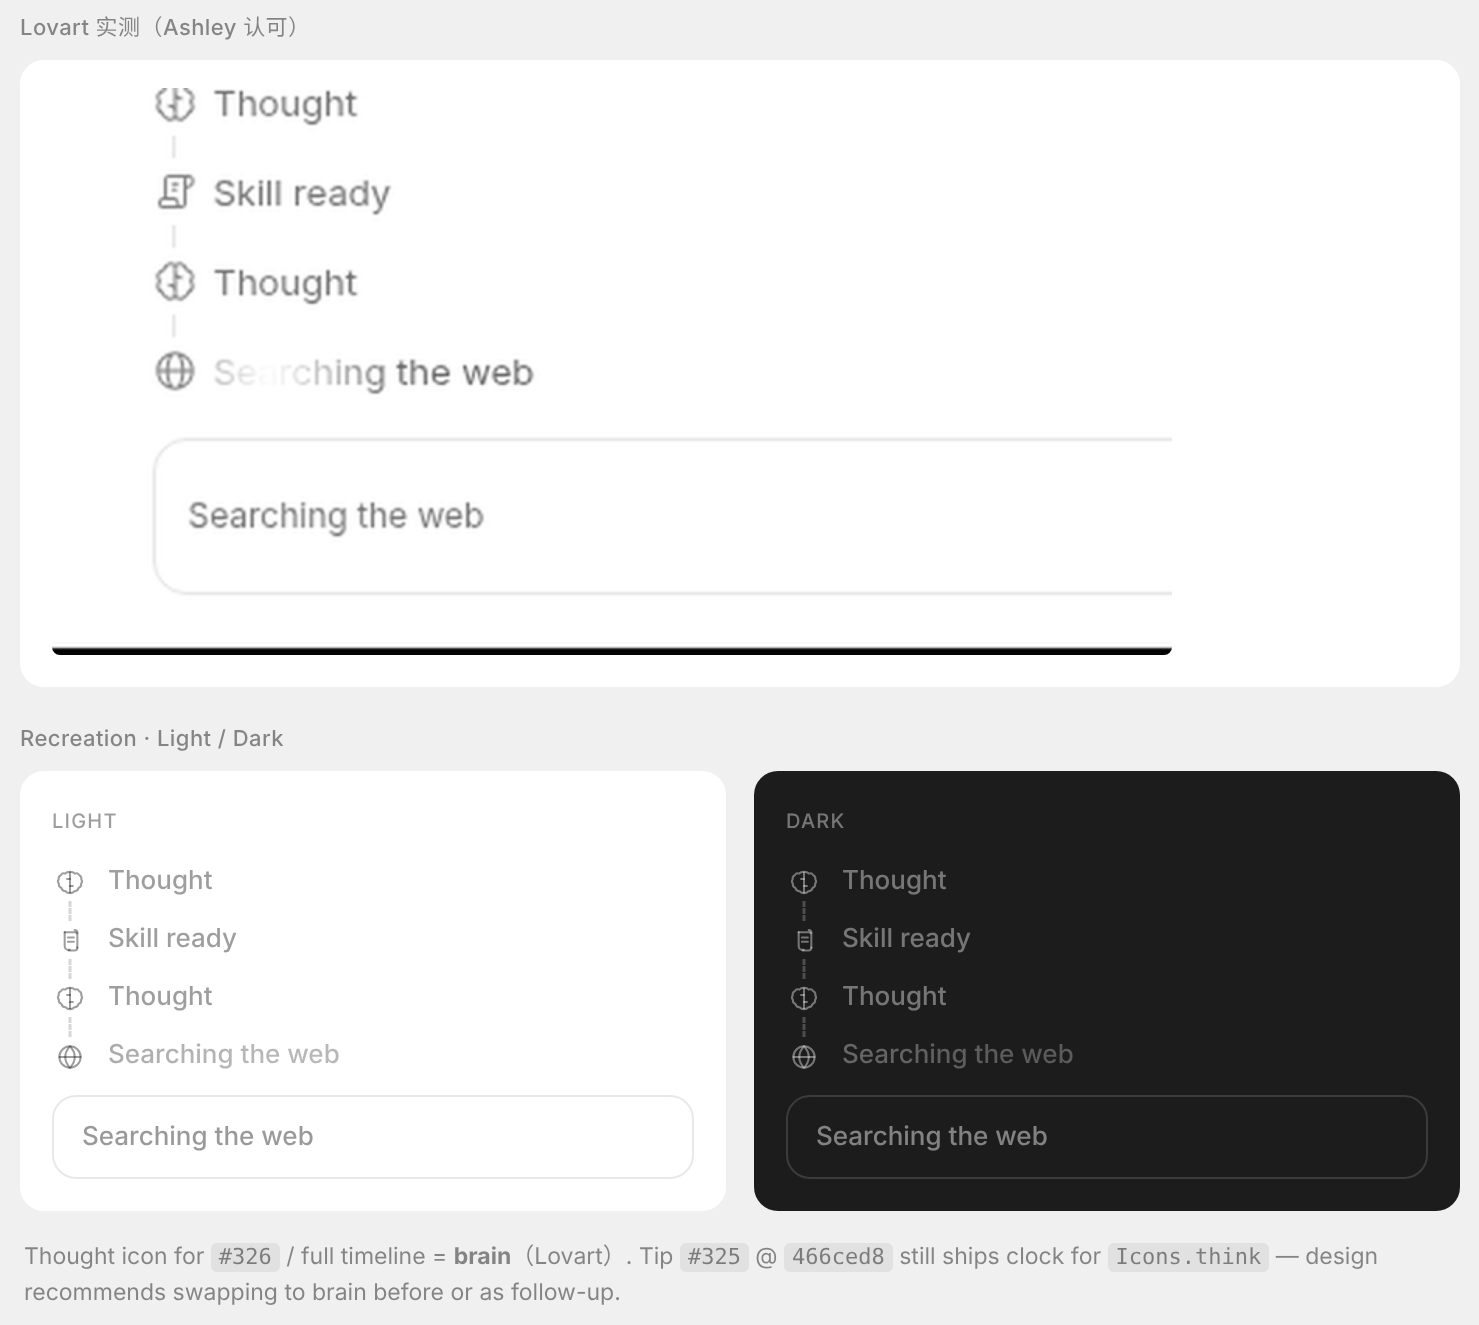
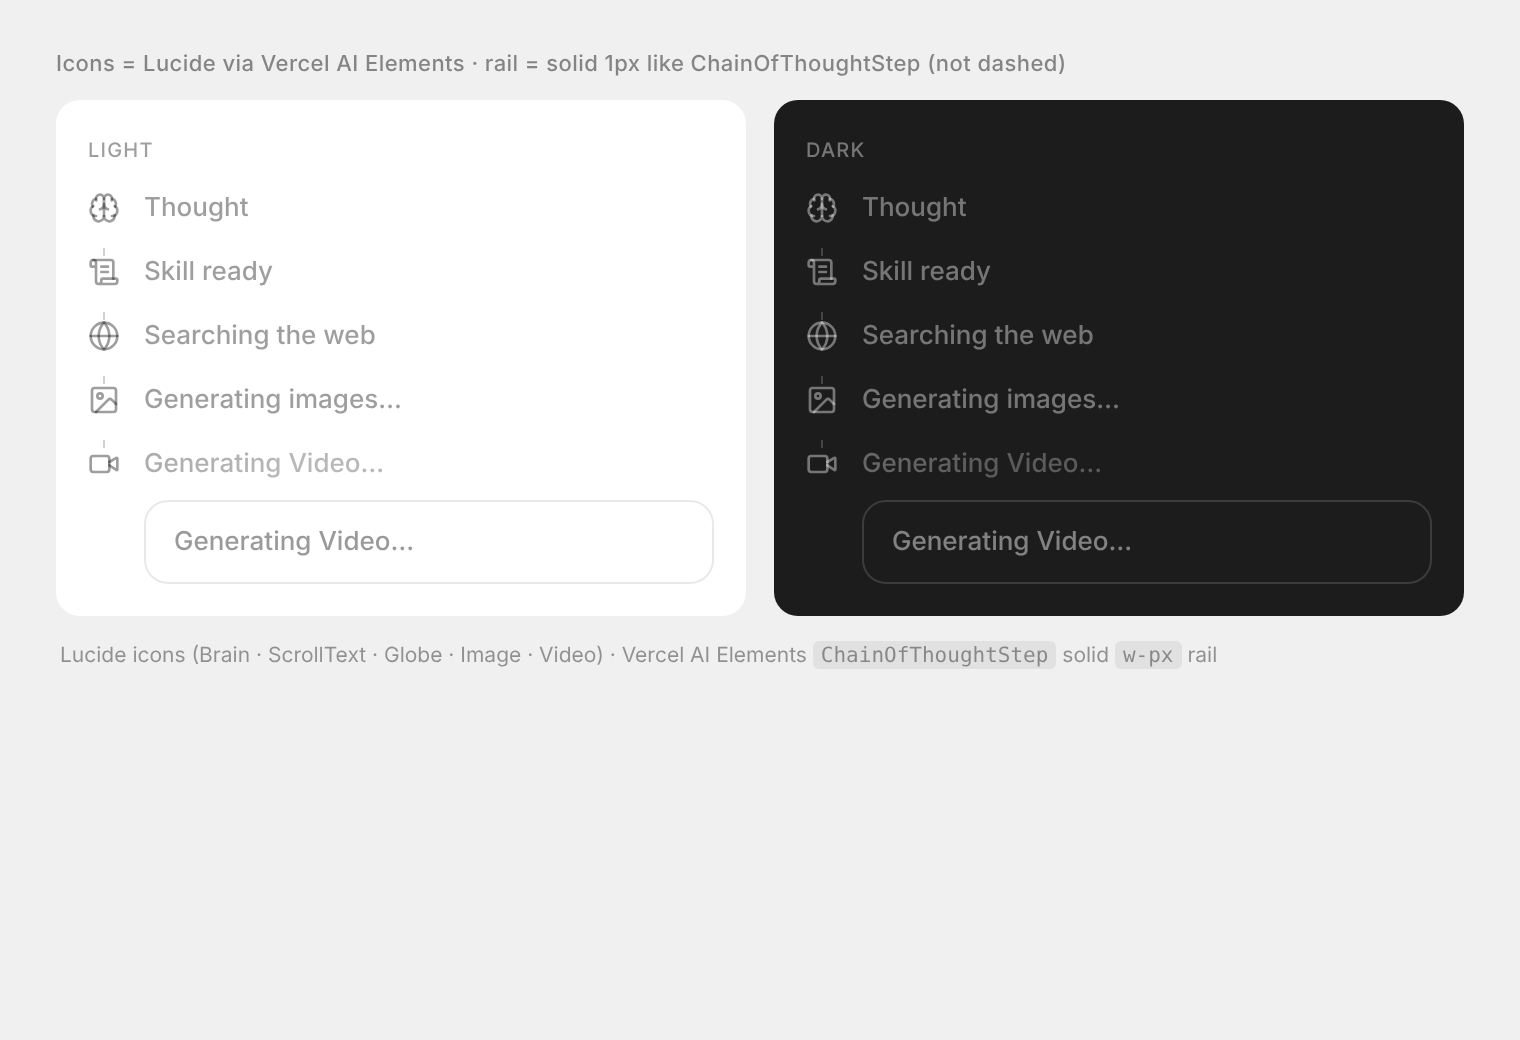
docs(design): #326 process-timeline v3 Lucide + solid CoT rail
Replace hand-drawn/dashed mock with Lucide Brain/ScrollText/Globe/Image/Video
(path data from lucide SVGs) and Vercel AI Elements ChainOfThoughtStep solid
1px rail. Full Lovart inventory incl. Generating images + Generating Video
active status card. Light/Dark side-by-side.

diff --git a/docs/design/326/process-timeline-326.html b/docs/design/326/process-timeline-326.html
@@ -1,40 +1,63 @@
 <!doctype html>
-<html lang="zh-CN"><head><meta charset="utf-8"/><title>#326 process-timeline · Lovart-faithful</title>
+<html lang="en"><head><meta charset="utf-8"/>
+<title>#326 process-timeline · Lucide + ChainOfThoughtStep rail (v3)</title>
 <style>
 :root{
   --ca-font:Inter,-apple-system,BlinkMacSystemFont,"Segoe UI",Roboto,Arial,sans-serif;
-  --muted:rgba(0,0,0,.38);          /* ~#9c9c9c on white */
-  --muted-active:rgba(0,0,0,.28);   /* lighter shimmer base ~#b9 */
+  --muted:rgba(0,0,0,.38);
+  --muted-active:rgba(0,0,0,.28);
   --text:rgba(0,0,0,.9);
   --float:#fff;
   --page:#f0f0f0;
-  --rail:rgba(0,0,0,.16);
   --card-border:rgba(0,0,0,.09);
   --card-text:rgba(0,0,0,.4);
+  --rail-opacity:.2;
 }
 *{box-sizing:border-box}
-body{margin:0;padding:24px 28px 32px;font:400 13px/20px var(--ca-font);background:var(--page);color:var(--text)}
+body{margin:0;padding:24px 28px 28px;font:400 13px/20px var(--ca-font);background:var(--page);color:var(--text)}
 .sheet{max-width:720px;margin:0 auto}
-.cap{font:500 11px/16px var(--ca-font);color:rgba(0,0,0,.45);margin:0 0 8px;letter-spacing:.02em}
-.ref-wrap{background:#fff;border-radius:12px;padding:14px 16px 16px;margin-bottom:18px}
-.ref-wrap img{display:block;width:100%;max-width:560px;height:auto;border-radius:4px}
-.pair{display:grid;grid-template-columns:1fr 1fr;gap:14px;margin-bottom:14px}
+.cap{font:500 11px/16px var(--ca-font);color:rgba(0,0,0,.45);margin:0 0 10px;letter-spacing:.02em}
+.pair{display:grid;grid-template-columns:1fr 1fr;gap:14px;margin-bottom:12px}
 .panel{background:var(--float);border-radius:12px;padding:18px 16px 16px}
-.panel.dark{background:#1c1c1c;--muted:rgba(255,255,255,.4);--muted-active:rgba(255,255,255,.28);--text:rgba(255,255,255,.9);--float:#1c1c1c;--rail:rgba(255,255,255,.22);--card-border:rgba(255,255,255,.14);--card-text:rgba(255,255,255,.45);color:var(--text)}
+.panel.dark{
+  background:#1c1c1c;
+  --muted:rgba(255,255,255,.4);
+  --muted-active:rgba(255,255,255,.28);
+  --text:rgba(255,255,255,.9);
+  --float:#1c1c1c;
+  --card-border:rgba(255,255,255,.14);
+  --card-text:rgba(255,255,255,.45);
+  color:var(--text);
+}
 .panel-label{font:500 10px/14px var(--ca-font);color:var(--muted);margin:0 0 14px;letter-spacing:.06em;text-transform:uppercase}
 .timeline{position:relative}
-.trow{display:grid;grid-template-columns:18px 1fr;column-gap:10px;align-items:start;position:relative;padding-bottom:10px}
-.trow:last-of-type{padding-bottom:0}
-.icon-col{position:relative;width:18px;display:flex;justify-content:center;padding-top:1px}
-.icon{width:18px;height:18px;display:inline-flex;align-items:center;justify-content:center;color:var(--muted);position:relative;z-index:1;background:var(--float)}
-.icon svg{width:16px;height:16px;display:block}
-/* dashed vertical rail through icon centers */
-.trow:not(:last-of-type) .icon-col::after{
-  content:"";position:absolute;top:19px;left:50%;transform:translateX(-50%);
-  width:0;bottom:-10px;border-left:1.5px dashed var(--rail);z-index:0;
+/* AI Elements ChainOfThoughtStep row */
+.trow{display:grid;grid-template-columns:16px 1fr;column-gap:12px;align-items:stretch;position:relative}
+.icon-col{position:relative;width:16px;display:flex;justify-content:center;align-items:flex-start;align-self:stretch}
+.icon{
+  width:16px;height:16px;display:inline-flex;align-items:center;justify-content:center;
+  color:var(--muted);position:relative;z-index:1;background:var(--float);
 }
-.body{min-width:0;padding-top:0}
-.title{font:500 13px/18px var(--ca-font);color:var(--muted)}
+.icon svg{width:16px;height:16px;display:block}
+/* solid 1px rail — mirrors: absolute top-7 bottom-0 left-1/2 -mx-px w-px bg-border */
+.trow:not(.is-last) .icon-col::after{
+  content:"";
+  position:absolute;
+  top:28px; /* top-7 */
+  bottom:0;
+  left:50%;
+  width:1px;
+  margin-left:-0.5px; /* -mx-px */
+  background:currentColor;
+  opacity:var(--rail-opacity);
+  z-index:0;
+  pointer-events:none;
+}
+.body{min-width:0;padding-bottom:16px}
+.trow.is-last .body{padding-bottom:0}
+.title{font:500 13px/18px var(--ca-font);color:var(--muted);margin:0;padding-top:0}
+/* first line aligns with 16px icon — line-height 18, nudge */
+.trow .title{line-height:16px}
 .title.active{
   background:linear-gradient(100deg,var(--muted-active) 28%,var(--muted) 48%,rgba(0,0,0,.55) 50%,var(--muted) 52%,var(--muted-active) 72%) 0 0/280% 100%;
   -webkit-background-clip:text;background-clip:text;color:transparent;
@@ -45,7 +68,6 @@ body{margin:0;padding:24px 28px 32px;font:400 13px/20px var(--ca-font);backgroun
   -webkit-background-clip:text;background-clip:text;color:transparent;
 }
 @keyframes shine{from{background-position:100% 0}to{background-position:0 0}}
-/* wide rounded status card — NOT a pill chip */
 .status-card{
   margin-top:10px;
   display:block;width:100%;
@@ -56,122 +78,149 @@ body{margin:0;padding:24px 28px 32px;font:400 13px/20px var(--ca-font);backgroun
   color:var(--card-text);
   background:transparent;
 }
-.note{margin:4px 2px 0;font:400 11.5px/1.55 var(--ca-font);color:rgba(0,0,0,.45);max-width:720px}
-.note code{font-size:11px;background:rgba(127,127,127,.12);padding:1px 4px;border-radius:3px}
+.attr{margin:2px 2px 0;font:400 10.5px/1.5 var(--ca-font);color:rgba(0,0,0,.4)}
+.attr code{font-size:10.5px;background:rgba(127,127,127,.12);padding:1px 4px;border-radius:3px}
 </style></head><body>
 <div class="sheet">
-
-  <p class="cap">Lovart 实测（Ashley 认可）</p>
-  <div class="ref-wrap">
-    <img src="lovart-process-timeline-liked.png" alt="Lovart process timeline — Ashley approved"/>
-  </div>
-
-  <p class="cap">Recreation · Light / Dark</p>
+  <p class="cap">Icons = Lucide via Vercel AI Elements · rail = solid 1px like ChainOfThoughtStep (not dashed)</p>
   <div class="pair">
+
     <!-- LIGHT -->
-    <div class="panel">
+    <div class="panel" id="panel-light">
       <div class="panel-label">Light</div>
       <div class="timeline">
         <div class="trow">
           <div class="icon-col"><span class="icon" aria-hidden="true">
-            <!-- Thought = brain (top-down, center fissure) — NOT clock -->
-            <svg viewBox="0 0 24 24" fill="none" stroke="currentColor" stroke-width="1.55" stroke-linecap="round" stroke-linejoin="round">
-              <path d="M12 3.5C10.2 3.5 9.1 4.1 8.3 5.0C7.2 4.5 5.8 4.9 5.2 6.1C4.0 6.6 3.3 7.9 3.5 9.2C2.8 10.2 2.9 11.6 3.7 12.6C3.4 13.9 4.2 15.3 5.6 15.8C5.9 17.2 7.2 18.2 8.7 18.2C9.5 19.1 10.6 19.6 12 19.6C13.4 19.6 14.5 19.1 15.3 18.2C16.8 18.2 18.1 17.2 18.4 15.8C19.8 15.3 20.6 13.9 20.3 12.6C21.1 11.6 21.2 10.2 20.5 9.2C20.7 7.9 20.0 6.6 18.8 6.1C18.2 4.9 16.8 4.5 15.7 5.0C14.9 4.1 13.8 3.5 12 3.5Z"/>
-              <path d="M12 4.2v14.8"/>
-              <path d="M12 9.0H9.8M12 14.2h2.2"/>
+            <!-- Lucide Brain -->
+            <svg xmlns="http://www.w3.org/2000/svg" width="16" height="16" viewBox="0 0 24 24" fill="none" stroke="currentColor" stroke-width="2" stroke-linecap="round" stroke-linejoin="round">
+              <path d="M12 18V5"/>
+              <path d="M15 13a4.17 4.17 0 01-3-4 4.17 4.17 0 01-3 4"/>
+              <path d="M17.707 6.294A3 3 0 1012 5a3 3 0 10-5.707 1.294"/>
+              <path d="M17.996 5.125a4 4 0 012.526 5.77"/>
+              <path d="M18 18a4 4 0 002-7.465"/>
+              <path d="M19.967 17.482a4 4 0 11-7.967.517 4 4 0 11-7.967-.517"/>
+              <path d="M6 18a4 4 0 01-2-7.465"/>
+              <path d="M6.004 5.125a4 4 0 00-2.526 5.77"/>
             </svg>
           </span></div>
-          <div class="body"><div class="title">Thought</div></div>
+          <div class="body"><p class="title">Thought</p></div>
         </div>
         <div class="trow">
           <div class="icon-col"><span class="icon" aria-hidden="true">
-            <!-- Skill ready = scroll / parchment -->
-            <svg viewBox="0 0 24 24" fill="none" stroke="currentColor" stroke-width="1.55" stroke-linecap="round" stroke-linejoin="round">
-              <path d="M8 5.5h7.5c1.1 0 2 .85 2 1.9v9.6"/>
-              <path d="M8 5.5v10.2c0 1.7 1.25 2.95 2.95 2.95h.9"/>
-              <path d="M17.5 16.9c0 1.2-.95 2.2-2.15 2.25H11"/>
-              <path d="M15.5 3.85c1.2.1 2.1 1.05 2.1 2.2"/>
-              <path d="M10.4 9.4h4.5M10.4 12.5h4.5"/>
+            <!-- Lucide ScrollText -->
+            <svg xmlns="http://www.w3.org/2000/svg" width="16" height="16" viewBox="0 0 24 24" fill="none" stroke="currentColor" stroke-width="2" stroke-linecap="round" stroke-linejoin="round">
+              <path d="M15 12h-5"/>
+              <path d="M15 8h-5"/>
+              <path d="M19 17V5a2 2 0 0 0-2-2H4"/>
+              <path d="M8 21h12a2 2 0 0 0 2-2v-1a1 1 0 0 0-1-1H11a1 1 0 0 0-1 1v1a2 2 0 1 1-4 0V5a2 2 0 1 0-4 0v2a1 1 0 0 0 1 1h3"/>
             </svg>
           </span></div>
-          <div class="body"><div class="title">Skill ready</div></div>
+          <div class="body"><p class="title">Skill ready</p></div>
         </div>
         <div class="trow">
           <div class="icon-col"><span class="icon" aria-hidden="true">
-            <svg viewBox="0 0 24 24" fill="none" stroke="currentColor" stroke-width="1.55" stroke-linecap="round" stroke-linejoin="round">
-              <path d="M12 3.5C10.2 3.5 9.1 4.1 8.3 5.0C7.2 4.5 5.8 4.9 5.2 6.1C4.0 6.6 3.3 7.9 3.5 9.2C2.8 10.2 2.9 11.6 3.7 12.6C3.4 13.9 4.2 15.3 5.6 15.8C5.9 17.2 7.2 18.2 8.7 18.2C9.5 19.1 10.6 19.6 12 19.6C13.4 19.6 14.5 19.1 15.3 18.2C16.8 18.2 18.1 17.2 18.4 15.8C19.8 15.3 20.6 13.9 20.3 12.6C21.1 11.6 21.2 10.2 20.5 9.2C20.7 7.9 20.0 6.6 18.8 6.1C18.2 4.9 16.8 4.5 15.7 5.0C14.9 4.1 13.8 3.5 12 3.5Z"/>
-              <path d="M12 4.2v14.8"/>
-              <path d="M12 9.0H9.8M12 14.2h2.2"/>
+            <!-- Lucide Globe -->
+            <svg xmlns="http://www.w3.org/2000/svg" width="16" height="16" viewBox="0 0 24 24" fill="none" stroke="currentColor" stroke-width="2" stroke-linecap="round" stroke-linejoin="round">
+              <circle cx="12" cy="12" r="10"/>
+              <path d="M12 2a14.5 14.5 0 0 0 0 20 14.5 14.5 0 0 0 0-20"/>
+              <path d="M2 12h20"/>
             </svg>
           </span></div>
-          <div class="body"><div class="title">Thought</div></div>
+          <div class="body"><p class="title">Searching the web</p></div>
         </div>
         <div class="trow">
           <div class="icon-col"><span class="icon" aria-hidden="true">
-            <!-- Searching = globe with lat/long -->
-            <svg viewBox="0 0 24 24" fill="none" stroke="currentColor" stroke-width="1.55" stroke-linecap="round" stroke-linejoin="round">
-              <circle cx="12" cy="12" r="8"/>
-              <path d="M4.2 12h15.6"/>
-              <path d="M12 4c2.35 2.45 3.55 5.05 3.55 8s-1.2 5.55-3.55 8c-2.35-2.45-3.55-5.05-3.55-8S9.65 6.45 12 4z"/>
+            <!-- Lucide Image -->
+            <svg xmlns="http://www.w3.org/2000/svg" width="16" height="16" viewBox="0 0 24 24" fill="none" stroke="currentColor" stroke-width="2" stroke-linecap="round" stroke-linejoin="round">
+              <rect width="18" height="18" x="3" y="3" rx="2" ry="2"/>
+              <circle cx="9" cy="9" r="2"/>
+              <path d="m21 15-3.086-3.086a2 2 0 0 0-2.828 0L6 21"/>
             </svg>
           </span></div>
-          <div class="body"><div class="title active">Searching the web</div></div>
+          <div class="body"><p class="title">Generating images…</p></div>
+        </div>
+        <div class="trow is-last">
+          <div class="icon-col"><span class="icon" aria-hidden="true">
+            <!-- Lucide Video -->
+            <svg xmlns="http://www.w3.org/2000/svg" width="16" height="16" viewBox="0 0 24 24" fill="none" stroke="currentColor" stroke-width="2" stroke-linecap="round" stroke-linejoin="round">
+              <path d="m16 13 5.223 3.482a.5.5 0 0 0 .777-.416V7.87a.5.5 0 0 0-.752-.432L16 10.5"/>
+              <rect x="2" y="6" width="14" height="12" rx="2"/>
+            </svg>
+          </span></div>
+          <div class="body">
+            <p class="title active">Generating Video…</p>
+            <div class="status-card">Generating Video…</div>
+          </div>
         </div>
       </div>
-      <div class="status-card">Searching the web</div>
     </div>
 
     <!-- DARK -->
-    <div class="panel dark">
+    <div class="panel dark" id="panel-dark">
       <div class="panel-label">Dark</div>
       <div class="timeline">
         <div class="trow">
           <div class="icon-col"><span class="icon" aria-hidden="true">
-            <svg viewBox="0 0 24 24" fill="none" stroke="currentColor" stroke-width="1.55" stroke-linecap="round" stroke-linejoin="round">
-              <path d="M12 3.5C10.2 3.5 9.1 4.1 8.3 5.0C7.2 4.5 5.8 4.9 5.2 6.1C4.0 6.6 3.3 7.9 3.5 9.2C2.8 10.2 2.9 11.6 3.7 12.6C3.4 13.9 4.2 15.3 5.6 15.8C5.9 17.2 7.2 18.2 8.7 18.2C9.5 19.1 10.6 19.6 12 19.6C13.4 19.6 14.5 19.1 15.3 18.2C16.8 18.2 18.1 17.2 18.4 15.8C19.8 15.3 20.6 13.9 20.3 12.6C21.1 11.6 21.2 10.2 20.5 9.2C20.7 7.9 20.0 6.6 18.8 6.1C18.2 4.9 16.8 4.5 15.7 5.0C14.9 4.1 13.8 3.5 12 3.5Z"/>
-              <path d="M12 4.2v14.8"/>
-              <path d="M12 9.0H9.8M12 14.2h2.2"/>
+            <svg xmlns="http://www.w3.org/2000/svg" width="16" height="16" viewBox="0 0 24 24" fill="none" stroke="currentColor" stroke-width="2" stroke-linecap="round" stroke-linejoin="round">
+              <path d="M12 18V5"/>
+              <path d="M15 13a4.17 4.17 0 01-3-4 4.17 4.17 0 01-3 4"/>
+              <path d="M17.707 6.294A3 3 0 1012 5a3 3 0 10-5.707 1.294"/>
+              <path d="M17.996 5.125a4 4 0 012.526 5.77"/>
+              <path d="M18 18a4 4 0 002-7.465"/>
+              <path d="M19.967 17.482a4 4 0 11-7.967.517 4 4 0 11-7.967-.517"/>
+              <path d="M6 18a4 4 0 01-2-7.465"/>
+              <path d="M6.004 5.125a4 4 0 00-2.526 5.77"/>
             </svg>
           </span></div>
-          <div class="body"><div class="title">Thought</div></div>
+          <div class="body"><p class="title">Thought</p></div>
         </div>
         <div class="trow">
           <div class="icon-col"><span class="icon" aria-hidden="true">
-            <svg viewBox="0 0 24 24" fill="none" stroke="currentColor" stroke-width="1.55" stroke-linecap="round" stroke-linejoin="round">
-              <path d="M8 5.5h7.5c1.1 0 2 .85 2 1.9v9.6"/>
-              <path d="M8 5.5v10.2c0 1.7 1.25 2.95 2.95 2.95h.9"/>
-              <path d="M17.5 16.9c0 1.2-.95 2.2-2.15 2.25H11"/>
-              <path d="M15.5 3.85c1.2.1 2.1 1.05 2.1 2.2"/>
-              <path d="M10.4 9.4h4.5M10.4 12.5h4.5"/>
+            <svg xmlns="http://www.w3.org/2000/svg" width="16" height="16" viewBox="0 0 24 24" fill="none" stroke="currentColor" stroke-width="2" stroke-linecap="round" stroke-linejoin="round">
+              <path d="M15 12h-5"/>
+              <path d="M15 8h-5"/>
+              <path d="M19 17V5a2 2 0 0 0-2-2H4"/>
+              <path d="M8 21h12a2 2 0 0 0 2-2v-1a1 1 0 0 0-1-1H11a1 1 0 0 0-1 1v1a2 2 0 1 1-4 0V5a2 2 0 1 0-4 0v2a1 1 0 0 0 1 1h3"/>
             </svg>
           </span></div>
-          <div class="body"><div class="title">Skill ready</div></div>
+          <div class="body"><p class="title">Skill ready</p></div>
         </div>
         <div class="trow">
           <div class="icon-col"><span class="icon" aria-hidden="true">
-            <svg viewBox="0 0 24 24" fill="none" stroke="currentColor" stroke-width="1.55" stroke-linecap="round" stroke-linejoin="round">
-              <path d="M12 3.5C10.2 3.5 9.1 4.1 8.3 5.0C7.2 4.5 5.8 4.9 5.2 6.1C4.0 6.6 3.3 7.9 3.5 9.2C2.8 10.2 2.9 11.6 3.7 12.6C3.4 13.9 4.2 15.3 5.6 15.8C5.9 17.2 7.2 18.2 8.7 18.2C9.5 19.1 10.6 19.6 12 19.6C13.4 19.6 14.5 19.1 15.3 18.2C16.8 18.2 18.1 17.2 18.4 15.8C19.8 15.3 20.6 13.9 20.3 12.6C21.1 11.6 21.2 10.2 20.5 9.2C20.7 7.9 20.0 6.6 18.8 6.1C18.2 4.9 16.8 4.5 15.7 5.0C14.9 4.1 13.8 3.5 12 3.5Z"/>
-              <path d="M12 4.2v14.8"/>
-              <path d="M12 9.0H9.8M12 14.2h2.2"/>
+            <svg xmlns="http://www.w3.org/2000/svg" width="16" height="16" viewBox="0 0 24 24" fill="none" stroke="currentColor" stroke-width="2" stroke-linecap="round" stroke-linejoin="round">
+              <circle cx="12" cy="12" r="10"/>
+              <path d="M12 2a14.5 14.5 0 0 0 0 20 14.5 14.5 0 0 0 0-20"/>
+              <path d="M2 12h20"/>
             </svg>
           </span></div>
-          <div class="body"><div class="title">Thought</div></div>
+          <div class="body"><p class="title">Searching the web</p></div>
         </div>
         <div class="trow">
           <div class="icon-col"><span class="icon" aria-hidden="true">
-            <svg viewBox="0 0 24 24" fill="none" stroke="currentColor" stroke-width="1.55" stroke-linecap="round" stroke-linejoin="round">
-              <circle cx="12" cy="12" r="8"/>
-              <path d="M4.2 12h15.6"/>
-              <path d="M12 4c2.35 2.45 3.55 5.05 3.55 8s-1.2 5.55-3.55 8c-2.35-2.45-3.55-5.05-3.55-8S9.65 6.45 12 4z"/>
+            <svg xmlns="http://www.w3.org/2000/svg" width="16" height="16" viewBox="0 0 24 24" fill="none" stroke="currentColor" stroke-width="2" stroke-linecap="round" stroke-linejoin="round">
+              <rect width="18" height="18" x="3" y="3" rx="2" ry="2"/>
+              <circle cx="9" cy="9" r="2"/>
+              <path d="m21 15-3.086-3.086a2 2 0 0 0-2.828 0L6 21"/>
             </svg>
           </span></div>
-          <div class="body"><div class="title active">Searching the web</div></div>
+          <div class="body"><p class="title">Generating images…</p></div>
+        </div>
+        <div class="trow is-last">
+          <div class="icon-col"><span class="icon" aria-hidden="true">
+            <svg xmlns="http://www.w3.org/2000/svg" width="16" height="16" viewBox="0 0 24 24" fill="none" stroke="currentColor" stroke-width="2" stroke-linecap="round" stroke-linejoin="round">
+              <path d="m16 13 5.223 3.482a.5.5 0 0 0 .777-.416V7.87a.5.5 0 0 0-.752-.432L16 10.5"/>
+              <rect x="2" y="6" width="14" height="12" rx="2"/>
+            </svg>
+          </span></div>
+          <div class="body">
+            <p class="title active">Generating Video…</p>
+            <div class="status-card">Generating Video…</div>
+          </div>
         </div>
       </div>
-      <div class="status-card">Searching the web</div>
     </div>
-  </div>
 
-  <p class="note">Thought icon for <code>#326</code> / full timeline = <strong>brain</strong>（Lovart）. Tip <code>#325</code> @ <code>466ced8</code> still ships clock for <code>Icons.think</code> — design recommends swapping to brain before or as follow-up.</p>
+  </div>
+  <p class="attr">Lucide icons (Brain · ScrollText · Globe · Image · Video) · Vercel AI Elements <code>ChainOfThoughtStep</code> solid <code>w-px</code> rail</p>
 </div>
 </body></html>
